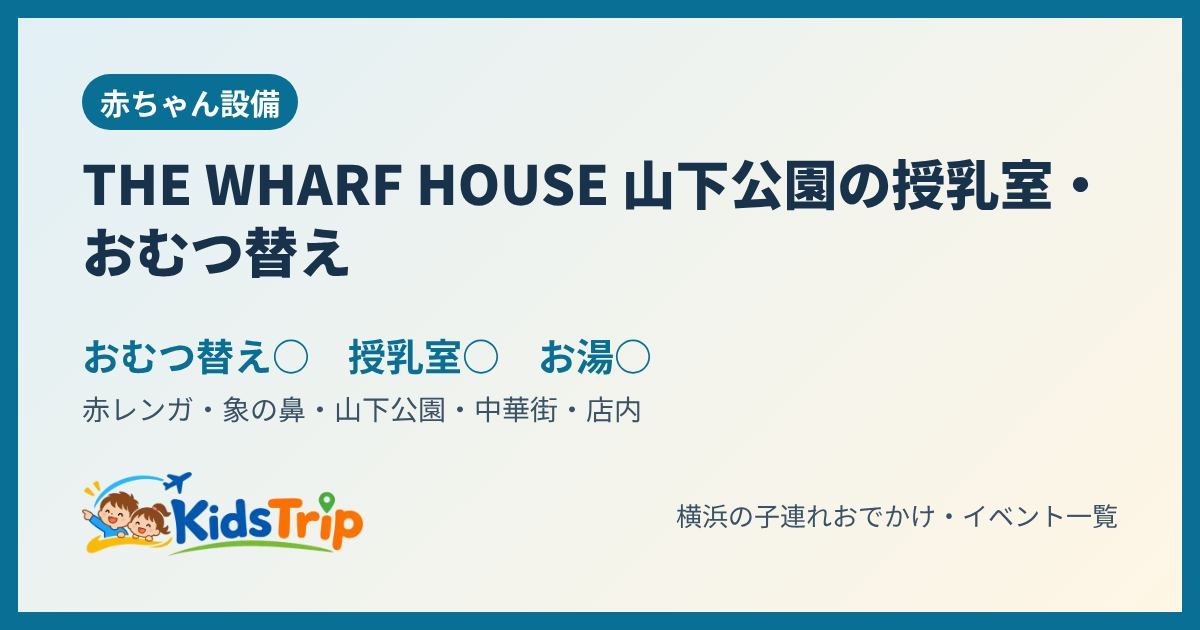
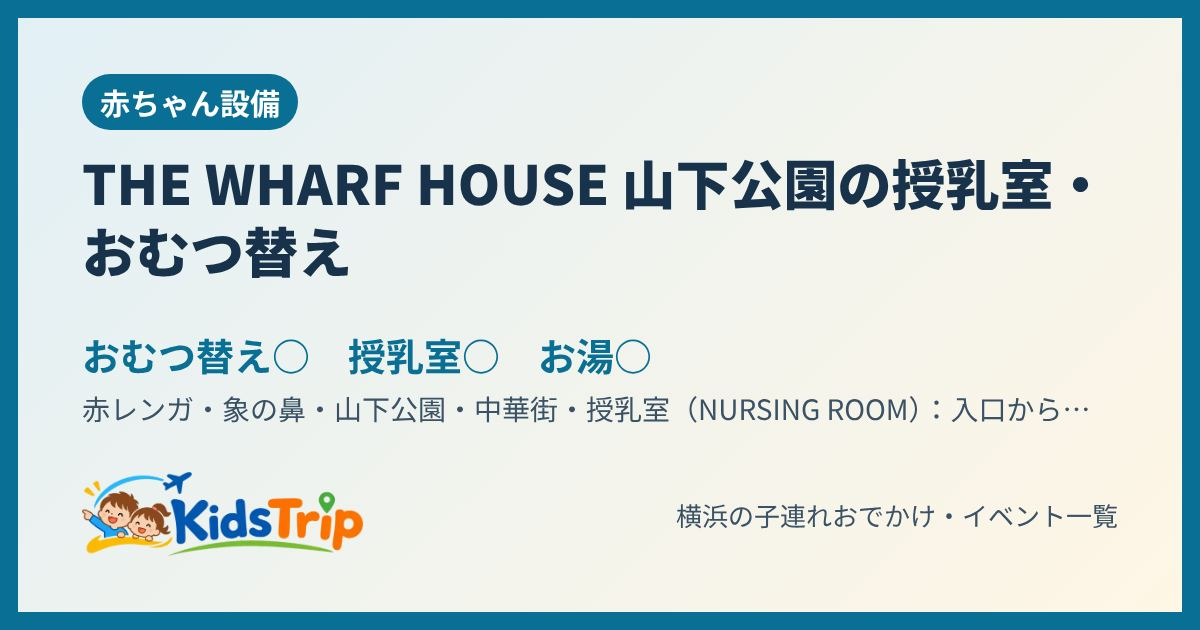
THE WHARF HOUSE 山下公園：授乳室・トイレ・キッズスペースの場所を公式のフロアマップから追加（利用者の画面）
Claude-Session: https://claude.ai/code/session_014AtJ2g3ghW1boxsW7syVwL

Changed region(s): [[0.4933, 0.6333, 0.8942, 0.6937]]

diff --git a/spot/1hgp91k/index.html b/spot/1hgp91k/index.html
@@ -4,12 +4,12 @@
 <meta charset="utf-8">
 <meta name="viewport" content="width=device-width, initial-scale=1">
 <title>THE WHARF HOUSE 山下公園の授乳室・おむつ替え・お湯｜KidsTrip</title>
-<meta name="description" content="THE WHARF HOUSE 山下公園（赤レンガ・象の鼻・山下公園・中華街）の授乳室・おむつ替えの場所：店内。おむつ替え・授乳室・調乳のお湯あり。">
+<meta name="description" content="THE WHARF HOUSE 山下公園（赤レンガ・象の鼻・山下公園・中華街）の授乳室・おむつ替えの場所：授乳室（NURSING ROOM）：入口から見て左、ショップの隣／トイレ：建物の西の端（多目的トイレあり）／キッズスペース：カフェ＆レストランの中（足湯受付のそば）。おむつ替え・授乳室・調乳のお">
 <link rel="canonical" href="https://kidstrip.jp/spot/1hgp91k/">
 <meta property="og:type" content="article">
 <meta property="og:site_name" content="KidsTrip">
 <meta property="og:title" content="THE WHARF HOUSE 山下公園の授乳室・おむつ替え・お湯｜KidsTrip">
-<meta property="og:description" content="THE WHARF HOUSE 山下公園（赤レンガ・象の鼻・山下公園・中華街）の授乳室・おむつ替えの場所：店内。おむつ替え・授乳室・調乳のお湯あり。">
+<meta property="og:description" content="THE WHARF HOUSE 山下公園（赤レンガ・象の鼻・山下公園・中華街）の授乳室・おむつ替えの場所：授乳室（NURSING ROOM）：入口から見て左、ショップの隣／トイレ：建物の西の端（多目的トイレあり）／キッズスペース：カフェ＆レストランの中（足湯受付のそば）。おむつ替え・授乳室・調乳のお">
 <meta property="og:url" content="https://kidstrip.jp/spot/1hgp91k/">
 <meta property="og:image" content="https://kidstrip.jp/og/spot-1hgp91k.jpg">
 <meta property="og:image:width" content="1200">
@@ -21,7 +21,7 @@
 <link rel="icon" href="../../img/favicon.png">
 <link rel="apple-touch-icon" href="../../img/apple-touch-icon.png">
 <script type="application/ld+json">{"@context": "https://schema.org", "@type": "BreadcrumbList", "itemListElement": [{"@type": "ListItem", "position": 1, "name": "トップ", "item": "https://kidstrip.jp/"}, {"@type": "ListItem", "position": 2, "name": "ごはん・おむつ", "item": "https://kidstrip.jp/#foodall"}, {"@type": "ListItem", "position": 3, "name": "THE WHARF HOUSE 山下公園"}]}</script>
-<script type="application/ld+json">{"@context": "https://schema.org", "@type": "Place", "name": "THE WHARF HOUSE 山下公園", "description": "THE WHARF HOUSE 山下公園（赤レンガ・象の鼻・山下公園・中華街）の授乳室・おむつ替えの場所：店内。おむつ替え・授乳室・調乳のお湯あり。", "url": "https://kidstrip.jp/spot/1hgp91k/", "image": ["https://kidstrip.jp/og/spot-1hgp91k.jpg"], "address": {"@type": "PostalAddress", "addressLocality": "横浜市", "addressRegion": "神奈川県", "addressCountry": "JP"}, "amenityFeature": [{"@type": "LocationFeatureSpecification", "name": "おむつ替え", "value": true}, {"@type": "LocationFeatureSpecification", "name": "授乳室", "value": true}, {"@type": "LocationFeatureSpecification", "name": "調乳のお湯", "value": true}], "publicAccess": true, "sameAs": "https://www.welcome.city.yokohama.jp/kids/eat.php", "hasMap": "https://www.google.com/maps/search/?api=1&query=THE WHARF HOUSE 山下公園"}</script>
+<script type="application/ld+json">{"@context": "https://schema.org", "@type": "Place", "name": "THE WHARF HOUSE 山下公園", "description": "THE WHARF HOUSE 山下公園（赤レンガ・象の鼻・山下公園・中華街）の授乳室・おむつ替えの場所：授乳室（NURSING ROOM）：入口から見て左、ショップの隣／トイレ：建物の西の端（多目的トイレあり）／キッズスペース：カフェ＆レストランの中（足湯受付のそば）。おむつ替え・授乳室・調乳のお", "url": "https://kidstrip.jp/spot/1hgp91k/", "image": ["https://kidstrip.jp/og/spot-1hgp91k.jpg"], "address": {"@type": "PostalAddress", "addressLocality": "横浜市", "addressRegion": "神奈川県", "addressCountry": "JP"}, "amenityFeature": [{"@type": "LocationFeatureSpecification", "name": "おむつ替え", "value": true}, {"@type": "LocationFeatureSpecification", "name": "授乳室", "value": true}, {"@type": "LocationFeatureSpecification", "name": "調乳のお湯", "value": true}], "publicAccess": true, "sameAs": "https://wharfhouse-yokohama.zetton.co.jp/", "hasMap": "https://www.google.com/maps/search/?api=1&query=THE WHARF HOUSE 山下公園"}</script>
 <style>
 .gkcmp th[scope=row]{white-space:nowrap}.gkcmp td{font-size:.92em}
 .gk{list-style:none;padding:0}.gk li{border:1px solid #e5e5e5;border-radius:10px;padding:10px 12px;margin:8px 0;line-height:1.7}.gk h3{margin:0 0 2px;font-size:1.02em}
@@ -52,11 +52,11 @@ footer{margin:28px 0 8px;font-size:12px;color:var(--muted)}
 <h1>THE WHARF HOUSE 山下公園の授乳室・おむつ替え・お湯</h1>
 <table class="bm"><thead><tr><th>場所</th><th>おむつ替え</th><th>授乳室</th><th>お湯</th><th>レンジ</th></tr></thead><tbody><tr><th>THE WHARF HOUSE 山下公園</th><td class="y">○</td><td class="y">○</td><td class="y">○</td><td class="u">？</td></tr></tbody></table>
 <p class="legend">○ あり　× なし　？ 調べた範囲で確認できず</p>
-<table class="info"><tr><th>場所</th><td>店内</td></tr><tr><th>エリア</th><td>赤レンガ・象の鼻・山下公園・中華街</td></tr></table>
-<ul class="chips"><li>キッズスペース</li><li>ベビーチェア</li></ul>
-<p class="sum">お店の設備なので、利用するときはお店で食事やお茶を。</p>
-<p class="small">出典：横浜市観光情報サイト</p>
-<div class="btns"><a class="btn main" data-act="official" href="https://www.welcome.city.yokohama.jp/kids/eat.php" target="_blank" rel="noopener">公式ページで確認</a>
+<table class="info"><tr><th>場所</th><td>授乳室（NURSING ROOM）：入口から見て左、ショップの隣／トイレ：建物の西の端（多目的トイレあり）／キッズスペース：カフェ＆レストランの中（足湯受付のそば）</td></tr><tr><th>エリア</th><td>赤レンガ・象の鼻・山下公園・中華街</td></tr></table>
+<ul class="chips"><li>キッズスペース</li><li>ベビーチェア</li><li>多目的トイレ</li><li>コインロッカー（トイレの前）</li></ul>
+<p class="sum">公式のフロアマップでは、授乳室は入口の左手、ショップの隣。トイレは建物の西の端にまとまっていて、多目的トイレのマークがある。キッズスペースはカフェ＆レストランの中。お店の設備なので、利用するときはお店で食事やお茶を。おむつ交換台・お湯は横浜市観光情報サイトの情報で、どのトイレにあるかは公式ページに記載なし。</p>
+<p class="small">出典：THE WHARF HOUSE 山下公園 公式（フロアマップ。利用者が送った公式の画面、2026年11月）・横浜市観光情報サイト</p>
+<div class="btns"><a class="btn main" data-act="official" href="https://wharfhouse-yokohama.zetton.co.jp/" target="_blank" rel="noopener">公式ページで確認</a>
 <a class="btn" href="https://www.google.com/maps/search/?api=1&amp;query=THE WHARF HOUSE 山下公園" target="_blank" rel="noopener">地図で見る</a>
 <button type="button" class="btn" data-share="1">🔗 リンクを送る・コピー</button></div>
 </article>

diff --git a/js/data.js b/js/data.js
@@ -569,8 +569,8 @@ const BABY = {
       note:"おむつ交換台ではなく、多機能トイレの大きなシートで替える形。授乳室・お湯・ベビーカー貸出はないので、授乳は赤レンガ倉庫かマリンタワーへ。隣の象の鼻パークも同じ（多機能トイレにシート）。", url:"https://www.welcome.city.yokohama.jp/accessibility/spot/details.php?sid=755", src:"横浜市観光情報サイト バリアフリー情報（2023年2月・象の鼻パークは2024年9月更新）" },
     { n:"横浜マリンタワー", where:"2階ベビールーム（おむつ替え・授乳）", d:true, f:true, w:false, ex:["ベビーカー貸出「べびかる」（1階受付・Webで事前予約が必要）"],
       note:"2階のベビールームでおむつ替えと授乳ができる。給水機はないので、ミルクのお湯は持参を。ベビーカーは1階受付の「べびかる」で借りられるが、Webでの事前予約が必要。電子レンジは公式ページに記載なし。", url:"https://marinetower.yokohama/", src:"横浜マリンタワー 公式（よくあるご質問。利用者が送った公式の画面、2026年11月）" },
-    { n:"THE WHARF HOUSE 山下公園", where:"店内", d:true, f:true, w:true, ex:["キッズスペース","ベビーチェア"],
-      note:"お店の設備なので、利用するときはお店で食事やお茶を。", url:"https://www.welcome.city.yokohama.jp/kids/eat.php", src:"横浜市観光情報サイト" },
+    { n:"THE WHARF HOUSE 山下公園", where:"授乳室（NURSING ROOM）：入口から見て左、ショップの隣／トイレ：建物の西の端（多目的トイレあり）／キッズスペース：カフェ＆レストランの中（足湯受付のそば）", d:true, f:true, w:true, ex:["キッズスペース","ベビーチェア","多目的トイレ","コインロッカー（トイレの前）"],
+      note:"公式のフロアマップでは、授乳室は入口の左手、ショップの隣。トイレは建物の西の端にまとまっていて、多目的トイレのマークがある。キッズスペースはカフェ＆レストランの中。お店の設備なので、利用するときはお店で食事やお茶を。おむつ交換台・お湯は横浜市観光情報サイトの情報で、どのトイレにあるかは公式ページに記載なし。", url:"https://wharfhouse-yokohama.zetton.co.jp/", src:"THE WHARF HOUSE 山下公園 公式（フロアマップ。利用者が送った公式の画面、2026年11月）・横浜市観光情報サイト" },
     { n:"横浜中華街", where:"街なかの多目的トイレ（中華街マップに掲載）", d:true, f:false, w:null, ex:[],
       note:"中華街の中には授乳室がありません。授乳は山下公園側の施設を使うのが確実です。", url:"https://report.iko-yo.net/articles/14169", src:"いこーよ" },
     { n:"のんびりんこ（中区の地域子育て支援拠点・belle横浜3F）", where:"3F のんびりんこの中：赤ちゃんコーナー・授乳スペース（ソファ）／オムツ替コーナー／飲食スペースの横にポット・電子レンジ／入口にベビーカー置場", d:true, f:true, w:true, mw:true, mwText:"飲食スペースの横（のんびりんこ 公式（ご利用案内・スペースのご案内の図・2026年11月20日確認））", ex:["電子レンジとポット（飲食スペースの横）","ベビーカー置場","飲食スペース（ミルク・離乳食・お弁当）","主に0〜3歳と保護者・利用登録が必要（無料）・火〜土 9:30〜15:30"],
@@ -874,7 +874,7 @@ const NOW_Y = 2026, NOW_M = 11;
 const ASOF = {
   "MARK IS みなとみらい":[2026,11,"2026年11月（公式ページ）"], "横浜ランドマークプラザ":[2026,11,"2026年11月（公式ページ）"], "コレットマーレ（桜木町駅前）":[2026,11,"2026年11月（利用者の情報）"], "みなとみらい東急スクエア":[2026,11,"2026年11月（公式ページ）"], "横浜アンパンマンこどもミュージアム":[2026,11,"2026年11月（公式ページ）"],
   "横浜赤レンガ倉庫":[2026,1,"2026年1月以前の取材"], "横浜ハンマーヘッド":[2025,5], "象の鼻テラス":[2024,3], "横浜マリンタワー":[2025,5],
-  "THE WHARF HOUSE 山下公園":[2024,3], "横浜中華街":null, "そごう横浜店":[2026,11,"2026年11月（公式ページ）"],
+  "THE WHARF HOUSE 山下公園":[2026,11,"2026年11月（公式のフロアマップ）"], "横浜中華街":null, "そごう横浜店":[2026,11,"2026年11月（公式ページ）"],
   "高島屋横浜店 6F（子ども服売り場）":[2026,11,"2026年11月（公式ページ・利用者の情報）"], "三溪園":[2020,10], "こどもの国":null,
   "よこはま動物園ズーラシア":[2024,3], "モザイクモール港北":null, "トレッサ横浜":[2026,11,"2026年11月（公式ページ）"], "横浜ワールドポーターズ":[2026,11,"2026年11月（公式ページ）"], "ららぽーと横浜":[2026,11,"2026年11月（公式ページ）"],
   "24/7 restaurant（東急スクエア③ 3F）":[2024,3], "アロハテーブル コレットマーレみなとみらい":[2024,3], "モスプレミアム 桜木町クロスゲート店":null,

diff --git a/index.html b/index.html
@@ -754,7 +754,7 @@ section[id], div[id="events"] { scroll-margin-top: 56px; }
   </footer>
 </div>
 
-<script src="js/data.js?v=5f301788d0" defer></script>
+<script src="js/data.js?v=a9b34474f8" defer></script>
 <script src="js/app.js?v=1e28e73a7b" defer></script>
 </body>
 </html>

diff --git a/tools/runs.md b/tools/runs.md
@@ -63,3 +63,4 @@
 | 2026-11-22 | 利用者との作業 | 18:27〜18:27 | 3 | BASEGATE横浜関内を赤ちゃん設備に追加（ザ レガシー1F ベビールーム・多目的トイレ。公式の施設・サービスページ、利用者が送ったURL） |
 | 2026-11-22 | 利用者との作業 | 22:08〜22:08 | 3 | 元町ショッピングストリート：元町オアシス（ラ・セルコート元町2F）の授乳室・おむつ替え・給湯器・時間を公式で確認して差しかえ（利用者が送ったURL） |
 | 2026-11-22 | 利用者との作業 | 22:11〜22:11 | 2 | 横浜マリンタワー：2階ベビールーム・給水機なし・べびかる（1階受付・Web予約）を公式のよくあるご質問（利用者の画面）で確認し、出典を公式に |
+| 2026-11-22 | 利用者との作業 | 22:14〜22:14 | 2 | THE WHARF HOUSE 山下公園：授乳室（入口左・ショップの隣）・トイレ・キッズスペースの場所を公式のフロアマップ（利用者の画面）から追加 |
